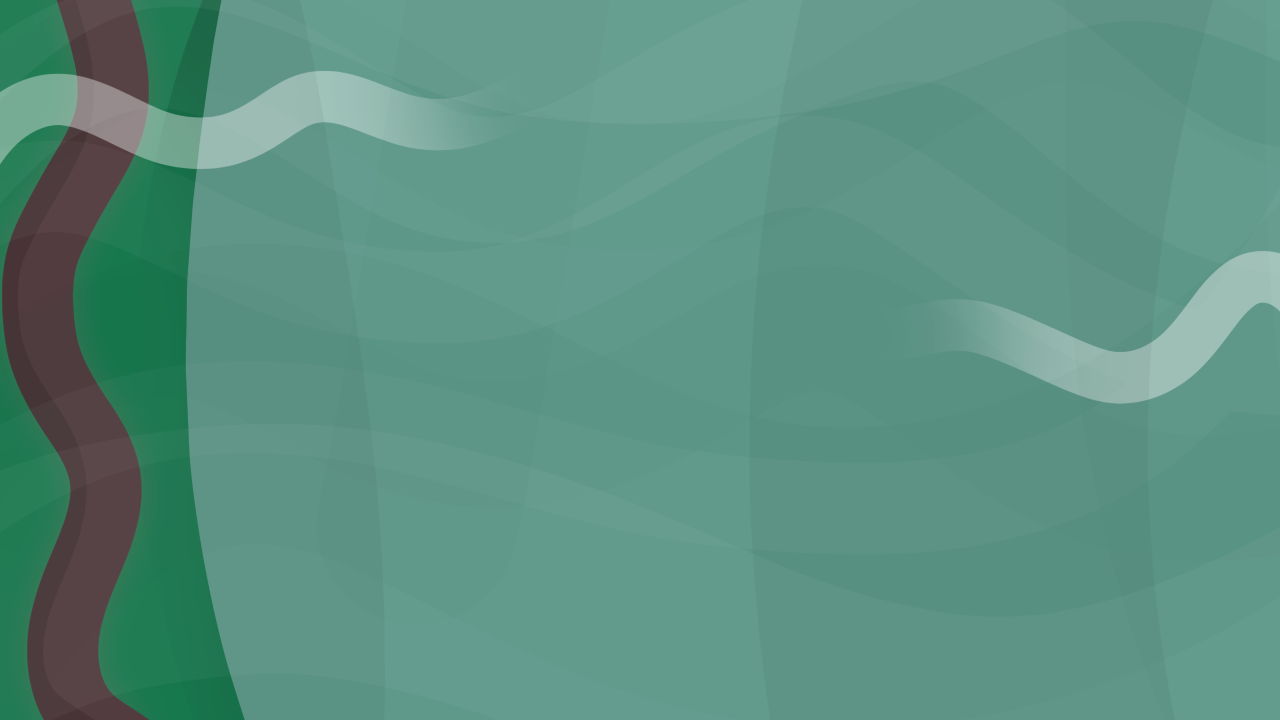
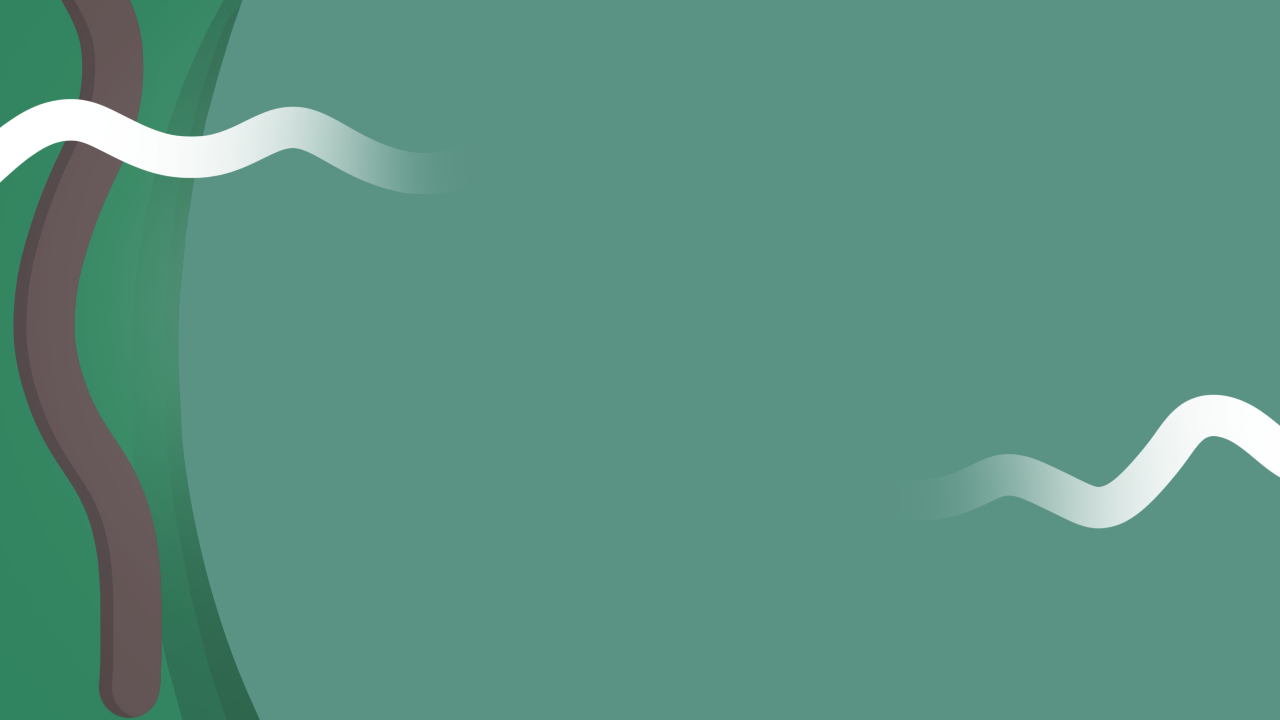
VERSION 1

Changed region(s): [[0.0, 0.0, 0.375, 1.0], [0.75, 0.3361, 1.0, 0.7333]]

diff --git a/Tempov1/Character.cs b/Tempov1/Character.cs
@@ -46,7 +46,7 @@ namespace Tempov1
         public Fixture fixture;
         public World world;
 
-        private ArrayList legArray = new ArrayList();
+        public ArrayList legArray = new ArrayList();
 
         public int width
         {
@@ -76,7 +76,7 @@ namespace Tempov1
 
             float circleRadius = ConvertUnits.ToSimUnits((( playerTexture.Width /2)*scale));   // 301px radius
 
-            body = BodyFactory.CreateCircle(world, circleRadius, 3f);    // Radius 10, desity 1
+            body = BodyFactory.CreateCircle(world, circleRadius, 4f);    // Radius 10, desity 1
             body.BodyType = BodyType.Dynamic;
             body.Position = ConvertUnits.ToSimUnits(position) + ConvertUnits.ToSimUnits(circleOrigin);
             body.Restitution = 0.3f;
@@ -166,9 +166,12 @@ namespace Tempov1
                 legArray.Add(limb);
             }
 
-            
-            legArray.Add(new Limb((int)((-1)*((playerTexture.Width/2)*scale)), (int)(90 * scale), scale, leftArmTexture, body, world, this, limbColour, 2));
-            legArray.Add(new Limb((int)(((playerTexture.Width / 2) * scale)), (int)(90 * scale), scale, rightArmTexture, body, world, this, limbColour, 3));
+            Random rnd = new Random();
+            if (rnd.Next(0, 2) == 1)
+            {
+                legArray.Add(new Limb((int)((-1) * ((playerTexture.Width / 2) * scale)), (int)(90 * scale), scale, leftArmTexture, body, world, this, limbColour, 2));
+                legArray.Add(new Limb((int)(((playerTexture.Width / 2) * scale)), (int)(90 * scale), scale, rightArmTexture, body, world, this, limbColour, 3));
+            }
         }
 
         private void DrawLimbs(SpriteBatch spriteBatch)
@@ -178,6 +181,15 @@ namespace Tempov1
                 //Vector2 limbPosition = limb.position;
                 //Vector2 newPosition = Vector2.Add(ConvertUnits.ToDisplayUnits(limb.body.Position), ConvertUnits.ToDisplayUnits(body.Position));
                 limb.Draw(spriteBatch);
+            }
+        }
+
+        public void DeletePhysics()
+        {
+            world.RemoveBody(body);
+            foreach (Limb limb in legArray)
+            {
+                world.RemoveBody(limb.limbBody);
             }
         }
 

diff --git a/Tempov1/Limb.cs b/Tempov1/Limb.cs
@@ -56,6 +56,9 @@ namespace Tempov1
             // Arm (left or right)
             if (limbType == 2 || limbType == 3)
             {
+
+
+
                 // TO DO - Remove repition in this class
                 if (limbType == 2)
                 {
@@ -68,23 +71,23 @@ namespace Tempov1
                 
                 limbBody.BodyType = BodyType.Dynamic;
                 limbBody.Position = ConvertUnits.ToSimUnits(parent.position + position + parent.circleOrigin);
-                limbBody.Restitution = 0f;
-                limbBody.Friction = 10f;
+                limbBody.Restitution = 1f;
+                limbBody.Friction = 5f;
 
                 RevoluteJoint _revolutejoint;
                 if (limbType == 2)
                 {
-                    _revolutejoint = JointFactory.CreateRevoluteJoint(world, body, limbBody, new Vector2(ConvertUnits.ToSimUnits(texture.Width / 2), ConvertUnits.ToSimUnits((-1) * texture.Height / 2)));
+                    JointFactory.CreateWeldJoint(world, body, limbBody, new Vector2(ConvertUnits.ToSimUnits(texture.Width / 2), ConvertUnits.ToSimUnits((-1) * texture.Height / 2)));
                 }
                 else
                 {
-                    _revolutejoint = JointFactory.CreateRevoluteJoint(world, body, limbBody, new Vector2(ConvertUnits.ToSimUnits((-1)*texture.Width / 2), ConvertUnits.ToSimUnits((-1) * texture.Height / 2)));
+                    JointFactory.CreateWeldJoint(world, body, limbBody, new Vector2(ConvertUnits.ToSimUnits((-1) * texture.Width / 2), ConvertUnits.ToSimUnits((-1) * texture.Height / 2)));
                 }
                 
-                _revolutejoint.LimitEnabled = true;
+                //_revolutejoint.LimitEnabled = true;
                 //_revolutejoint.JointType = JointType.FixedRevolute;
-                _revolutejoint.LowerLimit = (float)Math.PI/-4;
-                _revolutejoint.UpperLimit = (float)Math.PI/4;
+                //_revolutejoint.LowerLimit = (float)Math.PI/-4;
+                //_revolutejoint.UpperLimit = (float)Math.PI/4;
                 //JointFactory.CreateWeldJoint(world, limbBody, body, Vector2.Zero);
                 
             }

diff --git a/Tempov1/Game1.cs b/Tempov1/Game1.cs
@@ -163,6 +163,8 @@ namespace Tempov1
             // TODO: Add your update logic here
             world.Step((float)gameTime.ElapsedGameTime.TotalMilliseconds * 0.001f);
 
+
+
             base.Update(gameTime);
         }
 
@@ -212,7 +214,16 @@ namespace Tempov1
 
         public void HandleInput()
         {
-            if (mouseObj.HasClicked())
+            int click = mouseObj.whichClick();
+            if (click == 2)
+            {
+                foreach (Character delChar in characterList)
+                {
+                    delChar.DeletePhysics();
+                }
+                characterList.Clear();
+            }
+            if (click == 1)
             {
                 // Create a new dude
                 Console.WriteLine("Mouse pressed");
@@ -244,13 +255,16 @@ namespace Tempov1
         {
 
             Texture2D background = Content.Load<Texture2D>("background");
-            backgroundPos = backgroundPos - new Vector2((0.1f), 0f);
-            spriteBatch.Draw(background, backgroundPos, Color.White);
-            spriteBatch.Draw(background, backgroundPos+ new Vector2(background.Width, 0), Color.White);
-            if (backgroundPos == new Vector2(-background.Width, 0))
+            Texture2D detail = Content.Load<Texture2D>("detail");
+            if (backgroundPos.X <= (-background.Width))
             {
                 backgroundPos = Vector2.Zero;
             }
+            backgroundPos = backgroundPos - new Vector2((0.3f), 0f);
+            spriteBatch.Draw(background, Vector2.Zero, Color.White);
+            spriteBatch.Draw(detail, backgroundPos, Color.White);
+            spriteBatch.Draw(detail, backgroundPos+ new Vector2(background.Width, 0), Color.White);
+
 
             foreach (Vector4 plant in plantArray)
             {

diff --git a/Tempov1/MouseObj.cs b/Tempov1/MouseObj.cs
@@ -13,17 +13,32 @@ namespace Tempov1
         MouseState currentMouse;
         MouseState lastMouse;
 
+
         public bool HasClicked()
         {
             currentMouse = Mouse.GetState();
+
+            lastMouse = currentMouse;
+            return false;
+        }
+
+        public int whichClick()
+        {
+            currentMouse = Mouse.GetState();
+            if (currentMouse.RightButton == ButtonState.Pressed &&
+                lastMouse.RightButton == ButtonState.Released)
+            {
+                lastMouse = currentMouse;
+                return 2;
+            }
             if (currentMouse.LeftButton == ButtonState.Pressed &&
                 lastMouse.LeftButton == ButtonState.Released)
             {
                 lastMouse = currentMouse;
-                return true;
+                return 1;
             }
             lastMouse = currentMouse;
-            return false;
+            return 0;
         }
     }
 }
